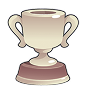
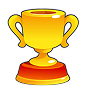
:)

diff --git a/Front/Trofeos/trofeosjason.js b/Front/Trofeos/trofeosjason.js
@@ -38,16 +38,39 @@ async function Trofeos() {
 
             // Si no hay tarjeta para ese trofeo, pasa al siguiente
             if (!tarjeta) return;
+            // Ponemos las imágenes que corresponden (color o gris)
+            cambiarImagen(tarjeta, trofeo.desbloqueado);
 
             if (trofeo.desbloqueado) {
                 tarjeta.style.backgroundColor = "#83EB96"; // desbloqueado: verde
                 tarjeta.classList.remove('bloqueado');
             } else {
-                tarjeta.classList.add('bloqueado');        // bloqueado: se le puede dar estilo en el CSS
+                tarjeta.classList.add('bloqueado');
             }
         });
     } catch (error) {
         // Si el servidor está apagado o hay un error de conexión
         console.error('No se pudieron cargar los trofeos:', error);
+    } finally {
+        // Pase lo que pase, mostramos las imágenes (ya están con su versión correcta)
+        document.querySelector('.medio').classList.add('cargado');
     }
+
+}
+
+// Cambia las imágenes de una tarjeta: color si está desbloqueado, gris si no
+function cambiarImagen(tarjeta, desbloqueado) {
+    // Una tarjeta tiene 2 imágenes (izquierda y derecha), las recorremos a las dos
+    tarjeta.querySelectorAll('img').forEach(img => {
+        // La primera vez guardamos el src original (el de color) para no perderlo
+        if (!img.dataset.color) {
+            img.dataset.color = img.getAttribute('src');
+        }
+
+        // Armamos el nombre de la imagen gris: "trofeo-rayo.png" -> "trofeo-rayo-gris.png"
+        const gris = img.dataset.color.replace('.png', '-gris.png');
+
+        // Si lo tiene, imagen de color; si no, imagen gris
+        img.src = desbloqueado ? img.dataset.color : gris;
+    });
 }

diff --git a/Front/Trofeos/trofeosstyle.css b/Front/Trofeos/trofeosstyle.css
@@ -154,3 +154,12 @@
   filter: grayscale(1);
   opacity: 0.5;
 }
+
+/* Las imágenes quedan ocultas hasta que el JS decide si van en color o en gris */
+.medio img {
+  visibility: hidden;
+}
+
+.medio.cargado img {
+  visibility: visible;
+}
